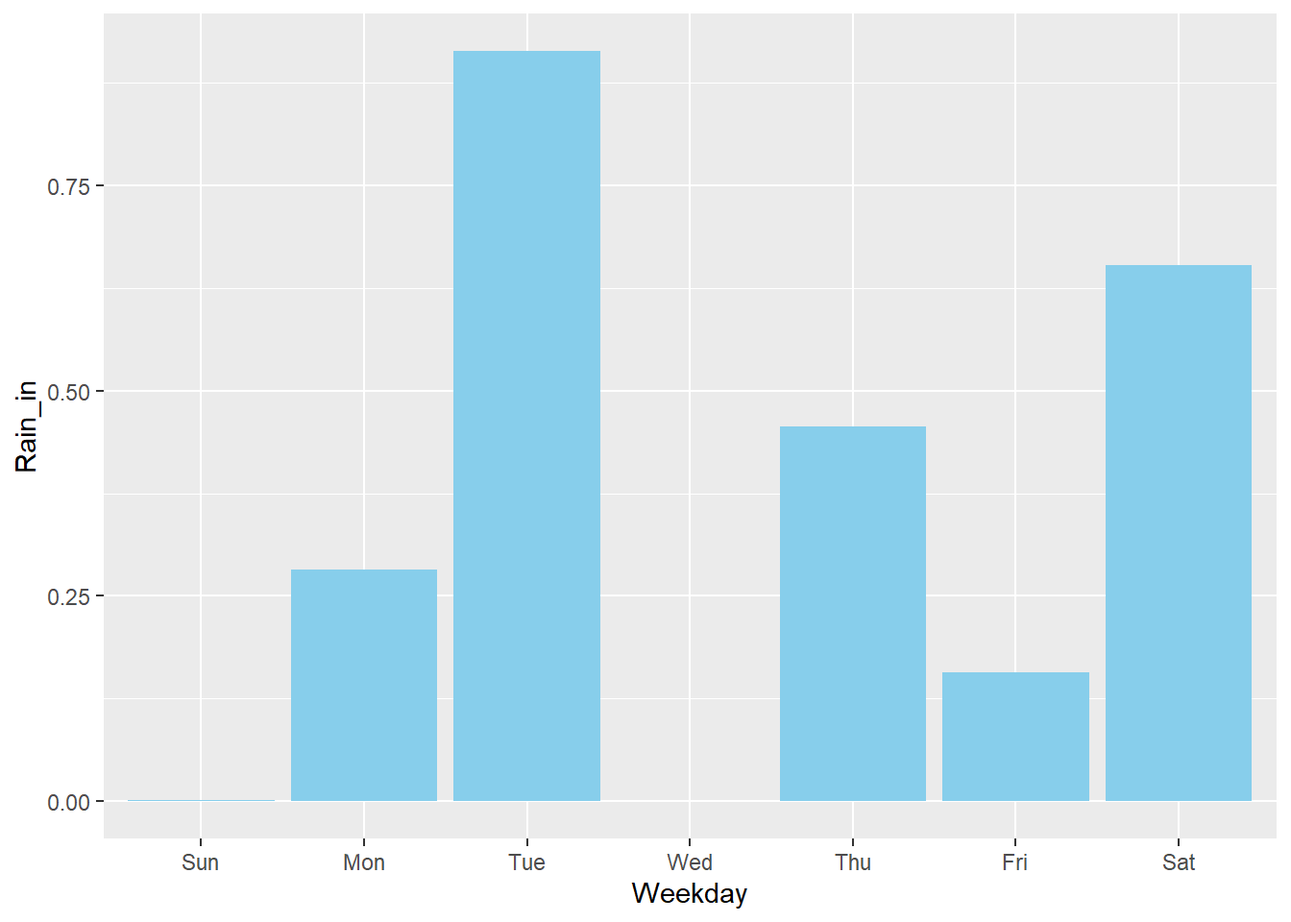
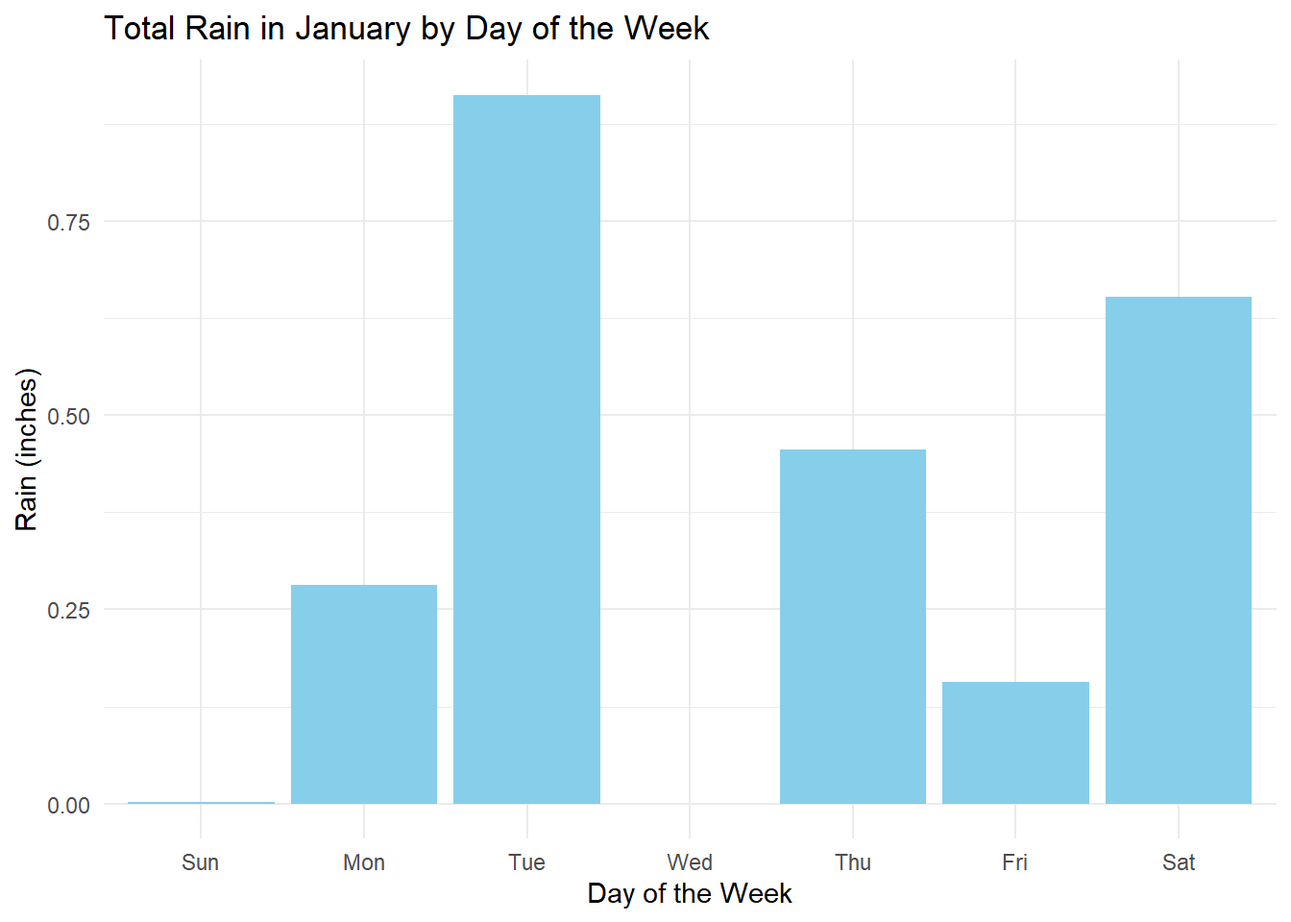
committing

diff --git a/docs/graphs.html b/docs/graphs.html
@@ -103,10 +103,10 @@ pre > code.sourceCode > span > a:first-child::before { text-decoration: underlin
 </header>
 
 
-<p>##Abstract</p>
+<section id="abstract" class="level2">
+<h2 class="anchored" data-anchor-id="abstract">Abstract</h2>
 <p>The following graphs were created using data from the Rice Rivers Center at Virginia Commonwealth University. The graphs depict random data specifications that have no relation to each other. They are correct, scientifically.</p>
 <div class="cell">
-<div class="sourceCode cell-code" id="cb1"><pre class="sourceCode r code-with-copy"><code class="sourceCode r"><span id="cb1-1"><a href="#cb1-1" aria-hidden="true" tabindex="-1"></a><span class="fu">library</span>(tidyverse)</span></code><button title="Copy to Clipboard" class="code-copy-button"><i class="bi"></i></button></pre></div>
 <div class="cell-output cell-output-stderr">
 <pre><code>── Attaching core tidyverse packages ──────────────────────── tidyverse 2.0.0 ──
 ✔ dplyr     1.1.4     ✔ readr     2.1.5
@@ -117,13 +117,8 @@ pre > code.sourceCode > span > a:first-child::before { text-decoration: underlin
 ── Conflicts ────────────────────────────────────────── tidyverse_conflicts() ──
 ✖ dplyr::filter() masks stats::filter()
 ✖ dplyr::lag()    masks stats::lag()
-ℹ Use the conflicted package (&lt;http://conflicted.r-lib.org/&gt;) to force all conflicts to become errors</code></pre>
-</div>
-<div class="sourceCode cell-code" id="cb3"><pre class="sourceCode r code-with-copy"><code class="sourceCode r"><span id="cb3-1"><a href="#cb3-1" aria-hidden="true" tabindex="-1"></a><span class="fu">library</span>(ggplot2)</span>
-<span id="cb3-2"><a href="#cb3-2" aria-hidden="true" tabindex="-1"></a><span class="fu">source</span>(<span class="st">"getricedata.R"</span>)</span>
-<span id="cb3-3"><a href="#cb3-3" aria-hidden="true" tabindex="-1"></a>data <span class="ot">&lt;-</span> <span class="fu">getricedata</span>()</span></code><button title="Copy to Clipboard" class="code-copy-button"><i class="bi"></i></button></pre></div>
-<div class="cell-output cell-output-stderr">
-<pre><code>Rows: 8199 Columns: 23
+ℹ Use the conflicted package (&lt;http://conflicted.r-lib.org/&gt;) to force all conflicts to become errors
+Rows: 8199 Columns: 23
 ── Column specification ────────────────────────────────────────────────────────
 Delimiter: ","
 chr  (1): DateTime
@@ -135,16 +130,16 @@ dbl (22): RecordID, PAR, WindSpeed_mph, WindDir, AirTempF, RelHumidity, BP_H...
 </div>
 <p>Total Rain for each Weekday in January</p>
 <div class="cell">
-<div class="sourceCode cell-code" id="cb5"><pre class="sourceCode r code-with-copy"><code class="sourceCode r"><span id="cb5-1"><a href="#cb5-1" aria-hidden="true" tabindex="-1"></a>df <span class="ot">&lt;-</span> data <span class="sc">|&gt;</span></span>
-<span id="cb5-2"><a href="#cb5-2" aria-hidden="true" tabindex="-1"></a>  <span class="fu">filter</span>(Month <span class="sc">==</span> <span class="st">"Jan"</span>) <span class="sc">|&gt;</span>  </span>
-<span id="cb5-3"><a href="#cb5-3" aria-hidden="true" tabindex="-1"></a>  <span class="fu">group_by</span>(Weekday) <span class="sc">|&gt;</span> </span>
-<span id="cb5-4"><a href="#cb5-4" aria-hidden="true" tabindex="-1"></a>  <span class="fu">summarise</span>(<span class="at">Rain_in =</span> <span class="fu">sum</span>(Rain_in))</span>
-<span id="cb5-5"><a href="#cb5-5" aria-hidden="true" tabindex="-1"></a></span>
-<span id="cb5-6"><a href="#cb5-6" aria-hidden="true" tabindex="-1"></a></span>
-<span id="cb5-7"><a href="#cb5-7" aria-hidden="true" tabindex="-1"></a></span>
-<span id="cb5-8"><a href="#cb5-8" aria-hidden="true" tabindex="-1"></a><span class="fu">barplot</span>( df<span class="sc">$</span>Rain_in, </span>
-<span id="cb5-9"><a href="#cb5-9" aria-hidden="true" tabindex="-1"></a>         <span class="at">names.arg =</span> df<span class="sc">$</span>Weekday, </span>
-<span id="cb5-10"><a href="#cb5-10" aria-hidden="true" tabindex="-1"></a>         <span class="at">ylab =</span> <span class="st">"Rain (inches)"</span>, <span class="at">xlab =</span> <span class="st">"Day of the Week"</span>, <span class="at">main =</span> <span class="st">"Average Total Rain in January"</span>) </span></code><button title="Copy to Clipboard" class="code-copy-button"><i class="bi"></i></button></pre></div>
+<div class="sourceCode cell-code" id="cb2"><pre class="sourceCode r code-with-copy"><code class="sourceCode r"><span id="cb2-1"><a href="#cb2-1" aria-hidden="true" tabindex="-1"></a>df <span class="ot">&lt;-</span> data <span class="sc">|&gt;</span></span>
+<span id="cb2-2"><a href="#cb2-2" aria-hidden="true" tabindex="-1"></a>  <span class="fu">filter</span>(Month <span class="sc">==</span> <span class="st">"Jan"</span>) <span class="sc">|&gt;</span>  </span>
+<span id="cb2-3"><a href="#cb2-3" aria-hidden="true" tabindex="-1"></a>  <span class="fu">group_by</span>(Weekday) <span class="sc">|&gt;</span> </span>
+<span id="cb2-4"><a href="#cb2-4" aria-hidden="true" tabindex="-1"></a>  <span class="fu">summarise</span>(<span class="at">Rain_in =</span> <span class="fu">sum</span>(Rain_in))</span>
+<span id="cb2-5"><a href="#cb2-5" aria-hidden="true" tabindex="-1"></a></span>
+<span id="cb2-6"><a href="#cb2-6" aria-hidden="true" tabindex="-1"></a></span>
+<span id="cb2-7"><a href="#cb2-7" aria-hidden="true" tabindex="-1"></a></span>
+<span id="cb2-8"><a href="#cb2-8" aria-hidden="true" tabindex="-1"></a><span class="fu">barplot</span>( df<span class="sc">$</span>Rain_in, </span>
+<span id="cb2-9"><a href="#cb2-9" aria-hidden="true" tabindex="-1"></a>         <span class="at">names.arg =</span> df<span class="sc">$</span>Weekday, </span>
+<span id="cb2-10"><a href="#cb2-10" aria-hidden="true" tabindex="-1"></a>         <span class="at">ylab =</span> <span class="st">"Rain (inches)"</span>, <span class="at">xlab =</span> <span class="st">"Day of the Week"</span>, <span class="at">main =</span> <span class="st">"Average Total Rain in January"</span>) </span></code><button title="Copy to Clipboard" class="code-copy-button"><i class="bi"></i></button></pre></div>
 <div class="cell-output-display">
 <div>
 <figure class="figure">
@@ -154,9 +149,13 @@ dbl (22): RecordID, PAR, WindSpeed_mph, WindDir, AirTempF, RelHumidity, BP_H...
 </div>
 </div>
 <div class="cell">
-<div class="sourceCode cell-code" id="cb6"><pre class="sourceCode r code-with-copy"><code class="sourceCode r"><span id="cb6-1"><a href="#cb6-1" aria-hidden="true" tabindex="-1"></a>df <span class="sc">|&gt;</span> </span>
-<span id="cb6-2"><a href="#cb6-2" aria-hidden="true" tabindex="-1"></a>  <span class="fu">ggplot</span>(<span class="fu">aes</span>(<span class="at">x =</span> Weekday, <span class="at">y =</span> Rain_in)) <span class="sc">+</span></span>
-<span id="cb6-3"><a href="#cb6-3" aria-hidden="true" tabindex="-1"></a>  <span class="fu">geom_bar</span>(<span class="at">stat =</span> <span class="st">"identity"</span>, <span class="at">fill =</span> <span class="st">"skyblue"</span>) </span></code><button title="Copy to Clipboard" class="code-copy-button"><i class="bi"></i></button></pre></div>
+<div class="sourceCode cell-code" id="cb3"><pre class="sourceCode r code-with-copy"><code class="sourceCode r"><span id="cb3-1"><a href="#cb3-1" aria-hidden="true" tabindex="-1"></a>df <span class="sc">|&gt;</span> </span>
+<span id="cb3-2"><a href="#cb3-2" aria-hidden="true" tabindex="-1"></a>  <span class="fu">ggplot</span>(<span class="fu">aes</span>(<span class="at">x =</span> Weekday, <span class="at">y =</span> Rain_in)) <span class="sc">+</span></span>
+<span id="cb3-3"><a href="#cb3-3" aria-hidden="true" tabindex="-1"></a>  <span class="fu">geom_bar</span>(<span class="at">stat =</span> <span class="st">"identity"</span>, <span class="at">fill =</span> <span class="st">"skyblue"</span>) <span class="sc">+</span> </span>
+<span id="cb3-4"><a href="#cb3-4" aria-hidden="true" tabindex="-1"></a>  <span class="fu">labs</span>(<span class="at">title =</span> <span class="st">"Total Rain in January by Day of the Week"</span>, </span>
+<span id="cb3-5"><a href="#cb3-5" aria-hidden="true" tabindex="-1"></a>       <span class="at">x =</span> <span class="st">"Day of the Week"</span>, </span>
+<span id="cb3-6"><a href="#cb3-6" aria-hidden="true" tabindex="-1"></a>       <span class="at">y =</span> <span class="st">"Rain (inches)"</span>) <span class="sc">+</span></span>
+<span id="cb3-7"><a href="#cb3-7" aria-hidden="true" tabindex="-1"></a>      <span class="fu">theme_minimal</span>() </span></code><button title="Copy to Clipboard" class="code-copy-button"><i class="bi"></i></button></pre></div>
 <div class="cell-output-display">
 <div>
 <figure class="figure">
@@ -164,25 +163,20 @@ dbl (22): RecordID, PAR, WindSpeed_mph, WindDir, AirTempF, RelHumidity, BP_H...
 </figure>
 </div>
 </div>
-<div class="sourceCode cell-code" id="cb7"><pre class="sourceCode r code-with-copy"><code class="sourceCode r"><span id="cb7-1"><a href="#cb7-1" aria-hidden="true" tabindex="-1"></a><span class="co">#+ </span></span>
-<span id="cb7-2"><a href="#cb7-2" aria-hidden="true" tabindex="-1"></a><span class="co">#  labs(title = "Total Rain in January by Day of the Week", </span></span>
-<span id="cb7-3"><a href="#cb7-3" aria-hidden="true" tabindex="-1"></a><span class="co">#       x = "Day of the Week", </span></span>
-<span id="cb7-4"><a href="#cb7-4" aria-hidden="true" tabindex="-1"></a><span class="co">#       y = "Rain (inches)") +</span></span>
-<span id="cb7-5"><a href="#cb7-5" aria-hidden="true" tabindex="-1"></a><span class="co">#  theme_minimal() </span></span></code><button title="Copy to Clipboard" class="code-copy-button"><i class="bi"></i></button></pre></div>
 </div>
 <p>Average daily temperature for weekdays in February</p>
 <div class="cell">
-<div class="sourceCode cell-code" id="cb8"><pre class="sourceCode r code-with-copy"><code class="sourceCode r"><span id="cb8-1"><a href="#cb8-1" aria-hidden="true" tabindex="-1"></a>temp <span class="ot">&lt;-</span> data <span class="sc">|&gt;</span></span>
-<span id="cb8-2"><a href="#cb8-2" aria-hidden="true" tabindex="-1"></a>  <span class="fu">filter</span>(Month <span class="sc">==</span> <span class="st">"Feb"</span>) <span class="sc">|&gt;</span></span>
-<span id="cb8-3"><a href="#cb8-3" aria-hidden="true" tabindex="-1"></a>  <span class="fu">group_by</span>( Day ) <span class="sc">|&gt;</span></span>
-<span id="cb8-4"><a href="#cb8-4" aria-hidden="true" tabindex="-1"></a>  <span class="fu">summarise</span>( <span class="at">meantemp =</span> <span class="fu">mean</span>( AirTempC) )</span>
-<span id="cb8-5"><a href="#cb8-5" aria-hidden="true" tabindex="-1"></a></span>
-<span id="cb8-6"><a href="#cb8-6" aria-hidden="true" tabindex="-1"></a></span>
-<span id="cb8-7"><a href="#cb8-7" aria-hidden="true" tabindex="-1"></a><span class="fu">ggplot</span>( temp, <span class="fu">aes</span>( <span class="at">x =</span> Day, <span class="at">y =</span> meantemp ) ) <span class="sc">+</span> <span class="fu">geom_point</span>() <span class="sc">+</span></span>
-<span id="cb8-8"><a href="#cb8-8" aria-hidden="true" tabindex="-1"></a>  <span class="fu">geom_smooth</span>(<span class="at">se =</span> <span class="cn">FALSE</span>, <span class="at">color =</span> <span class="st">"red"</span>) <span class="sc">+</span></span>
-<span id="cb8-9"><a href="#cb8-9" aria-hidden="true" tabindex="-1"></a>   <span class="fu">labs</span>(<span class="at">title =</span> <span class="st">"Mean Air Temperature in February"</span>, </span>
-<span id="cb8-10"><a href="#cb8-10" aria-hidden="true" tabindex="-1"></a>       <span class="at">x =</span> <span class="st">"Day"</span>, </span>
-<span id="cb8-11"><a href="#cb8-11" aria-hidden="true" tabindex="-1"></a>       <span class="at">y =</span> <span class="st">"Mean Temperature (°C)"</span>) </span></code><button title="Copy to Clipboard" class="code-copy-button"><i class="bi"></i></button></pre></div>
+<div class="sourceCode cell-code" id="cb4"><pre class="sourceCode r code-with-copy"><code class="sourceCode r"><span id="cb4-1"><a href="#cb4-1" aria-hidden="true" tabindex="-1"></a>temp <span class="ot">&lt;-</span> data <span class="sc">|&gt;</span></span>
+<span id="cb4-2"><a href="#cb4-2" aria-hidden="true" tabindex="-1"></a>  <span class="fu">filter</span>(Month <span class="sc">==</span> <span class="st">"Feb"</span>) <span class="sc">|&gt;</span></span>
+<span id="cb4-3"><a href="#cb4-3" aria-hidden="true" tabindex="-1"></a>  <span class="fu">group_by</span>( Day ) <span class="sc">|&gt;</span></span>
+<span id="cb4-4"><a href="#cb4-4" aria-hidden="true" tabindex="-1"></a>  <span class="fu">summarise</span>( <span class="at">meantemp =</span> <span class="fu">mean</span>( AirTempC) )</span>
+<span id="cb4-5"><a href="#cb4-5" aria-hidden="true" tabindex="-1"></a></span>
+<span id="cb4-6"><a href="#cb4-6" aria-hidden="true" tabindex="-1"></a></span>
+<span id="cb4-7"><a href="#cb4-7" aria-hidden="true" tabindex="-1"></a><span class="fu">ggplot</span>( temp, <span class="fu">aes</span>( <span class="at">x =</span> Day, <span class="at">y =</span> meantemp ) ) <span class="sc">+</span> <span class="fu">geom_point</span>() <span class="sc">+</span></span>
+<span id="cb4-8"><a href="#cb4-8" aria-hidden="true" tabindex="-1"></a>  <span class="fu">geom_smooth</span>(<span class="at">se =</span> <span class="cn">FALSE</span>, <span class="at">color =</span> <span class="st">"red"</span>) <span class="sc">+</span></span>
+<span id="cb4-9"><a href="#cb4-9" aria-hidden="true" tabindex="-1"></a>   <span class="fu">labs</span>(<span class="at">title =</span> <span class="st">"Mean Air Temperature in February"</span>, </span>
+<span id="cb4-10"><a href="#cb4-10" aria-hidden="true" tabindex="-1"></a>       <span class="at">x =</span> <span class="st">"Day"</span>, </span>
+<span id="cb4-11"><a href="#cb4-11" aria-hidden="true" tabindex="-1"></a>       <span class="at">y =</span> <span class="st">"Mean Temperature (°C)"</span>) </span></code><button title="Copy to Clipboard" class="code-copy-button"><i class="bi"></i></button></pre></div>
 <div class="cell-output cell-output-stderr">
 <pre><code>`geom_smooth()` using method = 'loess' and formula = 'y ~ x'</code></pre>
 </div>
@@ -193,14 +187,14 @@ dbl (22): RecordID, PAR, WindSpeed_mph, WindDir, AirTempF, RelHumidity, BP_H...
 </figure>
 </div>
 </div>
-<div class="sourceCode cell-code" id="cb10"><pre class="sourceCode r code-with-copy"><code class="sourceCode r"><span id="cb10-1"><a href="#cb10-1" aria-hidden="true" tabindex="-1"></a><span class="fu">plot</span>(temp<span class="sc">$</span>Day, temp<span class="sc">$</span>meantemp, </span>
-<span id="cb10-2"><a href="#cb10-2" aria-hidden="true" tabindex="-1"></a>     <span class="at">main =</span> <span class="st">"Mean Air Temperature in February"</span>, </span>
-<span id="cb10-3"><a href="#cb10-3" aria-hidden="true" tabindex="-1"></a>     <span class="at">xlab =</span> <span class="st">"Day"</span>, </span>
-<span id="cb10-4"><a href="#cb10-4" aria-hidden="true" tabindex="-1"></a>     <span class="at">ylab =</span> <span class="st">"Mean Temperature (°C)"</span>,</span>
-<span id="cb10-5"><a href="#cb10-5" aria-hidden="true" tabindex="-1"></a>     <span class="at">pch =</span> <span class="dv">16</span>,           </span>
-<span id="cb10-6"><a href="#cb10-6" aria-hidden="true" tabindex="-1"></a>     <span class="at">col =</span> <span class="st">"black"</span>,      </span>
-<span id="cb10-7"><a href="#cb10-7" aria-hidden="true" tabindex="-1"></a>     <span class="at">type =</span> <span class="st">"p"</span>)   <span class="sc">+</span>      </span>
-<span id="cb10-8"><a href="#cb10-8" aria-hidden="true" tabindex="-1"></a><span class="fu">lines</span>(<span class="fu">loess.smooth</span>(temp<span class="sc">$</span>Day, temp<span class="sc">$</span>meantemp), <span class="at">col =</span> <span class="st">"red"</span>, <span class="at">lwd =</span> <span class="dv">2</span>)</span></code><button title="Copy to Clipboard" class="code-copy-button"><i class="bi"></i></button></pre></div>
+<div class="sourceCode cell-code" id="cb6"><pre class="sourceCode r code-with-copy"><code class="sourceCode r"><span id="cb6-1"><a href="#cb6-1" aria-hidden="true" tabindex="-1"></a><span class="fu">plot</span>(temp<span class="sc">$</span>Day, temp<span class="sc">$</span>meantemp, </span>
+<span id="cb6-2"><a href="#cb6-2" aria-hidden="true" tabindex="-1"></a>     <span class="at">main =</span> <span class="st">"Mean Air Temperature in February"</span>, </span>
+<span id="cb6-3"><a href="#cb6-3" aria-hidden="true" tabindex="-1"></a>     <span class="at">xlab =</span> <span class="st">"Day"</span>, </span>
+<span id="cb6-4"><a href="#cb6-4" aria-hidden="true" tabindex="-1"></a>     <span class="at">ylab =</span> <span class="st">"Mean Temperature (°C)"</span>,</span>
+<span id="cb6-5"><a href="#cb6-5" aria-hidden="true" tabindex="-1"></a>     <span class="at">pch =</span> <span class="dv">16</span>,           </span>
+<span id="cb6-6"><a href="#cb6-6" aria-hidden="true" tabindex="-1"></a>     <span class="at">col =</span> <span class="st">"black"</span>,      </span>
+<span id="cb6-7"><a href="#cb6-7" aria-hidden="true" tabindex="-1"></a>     <span class="at">type =</span> <span class="st">"p"</span>)   <span class="sc">+</span>      </span>
+<span id="cb6-8"><a href="#cb6-8" aria-hidden="true" tabindex="-1"></a><span class="fu">lines</span>(<span class="fu">loess.smooth</span>(temp<span class="sc">$</span>Day, temp<span class="sc">$</span>meantemp), <span class="at">col =</span> <span class="st">"red"</span>, <span class="at">lwd =</span> <span class="dv">2</span>)</span></code><button title="Copy to Clipboard" class="code-copy-button"><i class="bi"></i></button></pre></div>
 <div class="cell-output-display">
 <div>
 <figure class="figure">
@@ -214,13 +208,13 @@ dbl (22): RecordID, PAR, WindSpeed_mph, WindDir, AirTempF, RelHumidity, BP_H...
 </div>
 <p>Water Depth on Valentine’s Day</p>
 <div class="cell">
-<div class="sourceCode cell-code" id="cb12"><pre class="sourceCode r code-with-copy"><code class="sourceCode r"><span id="cb12-1"><a href="#cb12-1" aria-hidden="true" tabindex="-1"></a>val <span class="ot">&lt;-</span> data <span class="sc">|&gt;</span></span>
-<span id="cb12-2"><a href="#cb12-2" aria-hidden="true" tabindex="-1"></a>  <span class="fu">filter</span>( Month <span class="sc">==</span> <span class="st">"Feb"</span>, Day <span class="sc">==</span> <span class="dv">14</span>) </span>
-<span id="cb12-3"><a href="#cb12-3" aria-hidden="true" tabindex="-1"></a></span>
-<span id="cb12-4"><a href="#cb12-4" aria-hidden="true" tabindex="-1"></a><span class="fu">ggplot</span>( val, <span class="fu">aes</span>( <span class="at">y =</span> Depth_m, <span class="at">x =</span> Date) ) <span class="sc">+</span> <span class="fu">geom_point</span>() <span class="sc">+</span></span>
-<span id="cb12-5"><a href="#cb12-5" aria-hidden="true" tabindex="-1"></a>  <span class="fu">labs</span>(<span class="at">title =</span> <span class="st">"Water Depth on Valentine's Day"</span>, </span>
-<span id="cb12-6"><a href="#cb12-6" aria-hidden="true" tabindex="-1"></a>       <span class="at">x =</span> <span class="st">"Time of Day"</span>, </span>
-<span id="cb12-7"><a href="#cb12-7" aria-hidden="true" tabindex="-1"></a>       <span class="at">y =</span> <span class="st">"Depth in Meters)"</span>) </span></code><button title="Copy to Clipboard" class="code-copy-button"><i class="bi"></i></button></pre></div>
+<div class="sourceCode cell-code" id="cb8"><pre class="sourceCode r code-with-copy"><code class="sourceCode r"><span id="cb8-1"><a href="#cb8-1" aria-hidden="true" tabindex="-1"></a>val <span class="ot">&lt;-</span> data <span class="sc">|&gt;</span></span>
+<span id="cb8-2"><a href="#cb8-2" aria-hidden="true" tabindex="-1"></a>  <span class="fu">filter</span>( Month <span class="sc">==</span> <span class="st">"Feb"</span>, Day <span class="sc">==</span> <span class="dv">14</span>) </span>
+<span id="cb8-3"><a href="#cb8-3" aria-hidden="true" tabindex="-1"></a></span>
+<span id="cb8-4"><a href="#cb8-4" aria-hidden="true" tabindex="-1"></a><span class="fu">ggplot</span>( val, <span class="fu">aes</span>( <span class="at">y =</span> Depth_m, <span class="at">x =</span> Date) ) <span class="sc">+</span> <span class="fu">geom_point</span>() <span class="sc">+</span></span>
+<span id="cb8-5"><a href="#cb8-5" aria-hidden="true" tabindex="-1"></a>  <span class="fu">labs</span>(<span class="at">title =</span> <span class="st">"Water Depth on Valentine's Day"</span>, </span>
+<span id="cb8-6"><a href="#cb8-6" aria-hidden="true" tabindex="-1"></a>       <span class="at">x =</span> <span class="st">"Time of Day"</span>, </span>
+<span id="cb8-7"><a href="#cb8-7" aria-hidden="true" tabindex="-1"></a>       <span class="at">y =</span> <span class="st">"Depth in Meters)"</span>) </span></code><button title="Copy to Clipboard" class="code-copy-button"><i class="bi"></i></button></pre></div>
 <div class="cell-output-display">
 <div>
 <figure class="figure">
@@ -228,13 +222,13 @@ dbl (22): RecordID, PAR, WindSpeed_mph, WindDir, AirTempF, RelHumidity, BP_H...
 </figure>
 </div>
 </div>
-<div class="sourceCode cell-code" id="cb13"><pre class="sourceCode r code-with-copy"><code class="sourceCode r"><span id="cb13-1"><a href="#cb13-1" aria-hidden="true" tabindex="-1"></a><span class="fu">plot</span>(val<span class="sc">$</span>Date, val<span class="sc">$</span>Depth_m,</span>
-<span id="cb13-2"><a href="#cb13-2" aria-hidden="true" tabindex="-1"></a>     <span class="at">main =</span> <span class="st">"Water Depth on Valentine's Day"</span>,  </span>
-<span id="cb13-3"><a href="#cb13-3" aria-hidden="true" tabindex="-1"></a>     <span class="at">xlab =</span> <span class="st">"Time of Day"</span>,                      </span>
-<span id="cb13-4"><a href="#cb13-4" aria-hidden="true" tabindex="-1"></a>     <span class="at">ylab =</span> <span class="st">"Depth in Meters"</span>,                </span>
-<span id="cb13-5"><a href="#cb13-5" aria-hidden="true" tabindex="-1"></a>     <span class="at">pch =</span> <span class="dv">16</span>,                                </span>
-<span id="cb13-6"><a href="#cb13-6" aria-hidden="true" tabindex="-1"></a>     <span class="at">col =</span> <span class="st">"blue"</span>,                            </span>
-<span id="cb13-7"><a href="#cb13-7" aria-hidden="true" tabindex="-1"></a>     <span class="at">type =</span> <span class="st">"p"</span>)         </span></code><button title="Copy to Clipboard" class="code-copy-button"><i class="bi"></i></button></pre></div>
+<div class="sourceCode cell-code" id="cb9"><pre class="sourceCode r code-with-copy"><code class="sourceCode r"><span id="cb9-1"><a href="#cb9-1" aria-hidden="true" tabindex="-1"></a><span class="fu">plot</span>(val<span class="sc">$</span>Date, val<span class="sc">$</span>Depth_m,</span>
+<span id="cb9-2"><a href="#cb9-2" aria-hidden="true" tabindex="-1"></a>     <span class="at">main =</span> <span class="st">"Water Depth on Valentine's Day"</span>,  </span>
+<span id="cb9-3"><a href="#cb9-3" aria-hidden="true" tabindex="-1"></a>     <span class="at">xlab =</span> <span class="st">"Time of Day"</span>,                      </span>
+<span id="cb9-4"><a href="#cb9-4" aria-hidden="true" tabindex="-1"></a>     <span class="at">ylab =</span> <span class="st">"Depth in Meters"</span>,                </span>
+<span id="cb9-5"><a href="#cb9-5" aria-hidden="true" tabindex="-1"></a>     <span class="at">pch =</span> <span class="dv">16</span>,                                </span>
+<span id="cb9-6"><a href="#cb9-6" aria-hidden="true" tabindex="-1"></a>     <span class="at">col =</span> <span class="st">"blue"</span>,                            </span>
+<span id="cb9-7"><a href="#cb9-7" aria-hidden="true" tabindex="-1"></a>     <span class="at">type =</span> <span class="st">"p"</span>)         </span></code><button title="Copy to Clipboard" class="code-copy-button"><i class="bi"></i></button></pre></div>
 <div class="cell-output-display">
 <div>
 <figure class="figure">
@@ -245,23 +239,26 @@ dbl (22): RecordID, PAR, WindSpeed_mph, WindDir, AirTempF, RelHumidity, BP_H...
 </div>
 <p>Daily Total Rain and Daily Median Temperature</p>
 <div class="cell">
-<div class="sourceCode cell-code" id="cb14"><pre class="sourceCode r code-with-copy"><code class="sourceCode r"><span id="cb14-1"><a href="#cb14-1" aria-hidden="true" tabindex="-1"></a>rain <span class="ot">&lt;-</span> data <span class="sc">|&gt;</span></span>
-<span id="cb14-2"><a href="#cb14-2" aria-hidden="true" tabindex="-1"></a>  <span class="fu">group_by</span>(Month, Day, Weekday) <span class="sc">|&gt;</span></span>
-<span id="cb14-3"><a href="#cb14-3" aria-hidden="true" tabindex="-1"></a>  <span class="fu">summarise</span>( <span class="at">totalrain =</span> <span class="fu">sum</span>( Rain_in), <span class="at">mediantemp =</span> <span class="fu">median</span>(AirTempC) )</span></code><button title="Copy to Clipboard" class="code-copy-button"><i class="bi"></i></button></pre></div>
+<div class="sourceCode cell-code" id="cb10"><pre class="sourceCode r code-with-copy"><code class="sourceCode r"><span id="cb10-1"><a href="#cb10-1" aria-hidden="true" tabindex="-1"></a>rain <span class="ot">&lt;-</span> data <span class="sc">|&gt;</span></span>
+<span id="cb10-2"><a href="#cb10-2" aria-hidden="true" tabindex="-1"></a>  <span class="fu">group_by</span>(Month, Day, Weekday) <span class="sc">|&gt;</span></span>
+<span id="cb10-3"><a href="#cb10-3" aria-hidden="true" tabindex="-1"></a>  <span class="fu">summarise</span>(<span class="at">totalrain =</span> <span class="fu">sum</span>(Rain_in), <span class="at">mediantemp =</span> <span class="fu">median</span>(AirTempC))</span></code><button title="Copy to Clipboard" class="code-copy-button"><i class="bi"></i></button></pre></div>
 <div class="cell-output cell-output-stderr">
 <pre><code>`summarise()` has grouped output by 'Month', 'Day'. You can override using the
 `.groups` argument.</code></pre>
 </div>
-<div class="sourceCode cell-code" id="cb16"><pre class="sourceCode r code-with-copy"><code class="sourceCode r"><span id="cb16-1"><a href="#cb16-1" aria-hidden="true" tabindex="-1"></a>centroids <span class="ot">&lt;-</span> rain <span class="sc">|&gt;</span></span>
-<span id="cb16-2"><a href="#cb16-2" aria-hidden="true" tabindex="-1"></a>  <span class="fu">group_by</span>(Month) <span class="sc">|&gt;</span></span>
-<span id="cb16-3"><a href="#cb16-3" aria-hidden="true" tabindex="-1"></a>  <span class="fu">summarise</span>( <span class="at">mrain =</span> <span class="fu">mean</span>(totalrain), <span class="at">mtemp =</span> <span class="fu">mean</span>(mediantemp))</span>
-<span id="cb16-4"><a href="#cb16-4" aria-hidden="true" tabindex="-1"></a></span>
-<span id="cb16-5"><a href="#cb16-5" aria-hidden="true" tabindex="-1"></a><span class="fu">ggplot</span>(rain, <span class="fu">aes</span>( totalrain, <span class="at">y =</span> mediantemp, <span class="at">color =</span> Month)) <span class="sc">+</span></span>
-<span id="cb16-6"><a href="#cb16-6" aria-hidden="true" tabindex="-1"></a>  <span class="fu">geom_point</span>() <span class="sc">+</span></span>
-<span id="cb16-7"><a href="#cb16-7" aria-hidden="true" tabindex="-1"></a>  <span class="fu">geom_text</span>(<span class="at">data =</span> centroids, <span class="fu">aes</span> (<span class="at">x=</span> mrain, <span class="at">y=</span>mtemp, <span class="at">label =</span> Month), <span class="at">color =</span> <span class="st">"black"</span>, <span class="at">fontface =</span> <span class="st">"bold"</span>) <span class="sc">+</span></span>
-<span id="cb16-8"><a href="#cb16-8" aria-hidden="true" tabindex="-1"></a>  <span class="fu">labs</span>(<span class="at">title =</span> <span class="st">"Daily Total Rain vs. Median Temperature"</span>, </span>
-<span id="cb16-9"><a href="#cb16-9" aria-hidden="true" tabindex="-1"></a>       <span class="at">x =</span> <span class="st">"Daily Total Rain (mm)"</span>, </span>
-<span id="cb16-10"><a href="#cb16-10" aria-hidden="true" tabindex="-1"></a>       <span class="at">y =</span> <span class="st">"Daily Median Temperature (°C)"</span>) </span></code><button title="Copy to Clipboard" class="code-copy-button"><i class="bi"></i></button></pre></div>
+<div class="sourceCode cell-code" id="cb12"><pre class="sourceCode r code-with-copy"><code class="sourceCode r"><span id="cb12-1"><a href="#cb12-1" aria-hidden="true" tabindex="-1"></a>centroids <span class="ot">&lt;-</span> rain <span class="sc">|&gt;</span></span>
+<span id="cb12-2"><a href="#cb12-2" aria-hidden="true" tabindex="-1"></a>  <span class="fu">group_by</span>(Month) <span class="sc">|&gt;</span></span>
+<span id="cb12-3"><a href="#cb12-3" aria-hidden="true" tabindex="-1"></a>  <span class="fu">summarise</span>(<span class="at">mrain =</span> <span class="fu">mean</span>(totalrain), <span class="at">mtemp =</span> <span class="fu">mean</span>(mediantemp))</span>
+<span id="cb12-4"><a href="#cb12-4" aria-hidden="true" tabindex="-1"></a></span>
+<span id="cb12-5"><a href="#cb12-5" aria-hidden="true" tabindex="-1"></a><span class="fu">ggplot</span>(rain, <span class="fu">aes</span>(totalrain, <span class="at">y =</span> mediantemp)) <span class="sc">+</span></span>
+<span id="cb12-6"><a href="#cb12-6" aria-hidden="true" tabindex="-1"></a>  <span class="fu">geom_point</span>(<span class="fu">aes</span>(<span class="at">color =</span> Month)) <span class="sc">+</span></span>
+<span id="cb12-7"><a href="#cb12-7" aria-hidden="true" tabindex="-1"></a>  <span class="fu">geom_point</span>(<span class="at">data =</span> centroids, <span class="fu">aes</span>(<span class="at">x =</span> mrain, <span class="at">y =</span> mtemp), <span class="at">color =</span> <span class="st">"red"</span>, <span class="at">size =</span> <span class="dv">2</span>) <span class="sc">+</span>  </span>
+<span id="cb12-8"><a href="#cb12-8" aria-hidden="true" tabindex="-1"></a>  <span class="fu">geom_text</span>(<span class="at">data =</span> centroids, <span class="fu">aes</span>(<span class="at">x =</span> mrain, <span class="at">y =</span> mtemp, <span class="at">label =</span> Month), <span class="at">color =</span> <span class="st">"black"</span>, <span class="at">fontface =</span> <span class="st">"bold"</span>, <span class="at">vjust =</span> <span class="sc">-</span><span class="dv">1</span>) <span class="sc">+</span>  </span>
+<span id="cb12-9"><a href="#cb12-9" aria-hidden="true" tabindex="-1"></a>  <span class="fu">facet_wrap</span>(<span class="sc">~</span> Month) <span class="sc">+</span>  </span>
+<span id="cb12-10"><a href="#cb12-10" aria-hidden="true" tabindex="-1"></a>  <span class="fu">labs</span>(<span class="at">title =</span> <span class="st">"Daily Total Rain vs. Median Temperature by Month"</span>,</span>
+<span id="cb12-11"><a href="#cb12-11" aria-hidden="true" tabindex="-1"></a>       <span class="at">x =</span> <span class="st">"Daily Total Rain (mm)"</span>,</span>
+<span id="cb12-12"><a href="#cb12-12" aria-hidden="true" tabindex="-1"></a>       <span class="at">y =</span> <span class="st">"Daily Median Temperature (°C)"</span>) <span class="sc">+</span></span>
+<span id="cb12-13"><a href="#cb12-13" aria-hidden="true" tabindex="-1"></a>  <span class="fu">theme_minimal</span>()  </span></code><button title="Copy to Clipboard" class="code-copy-button"><i class="bi"></i></button></pre></div>
 <div class="cell-output-display">
 <div>
 <figure class="figure">
@@ -270,19 +267,21 @@ dbl (22): RecordID, PAR, WindSpeed_mph, WindDir, AirTempF, RelHumidity, BP_H...
 </div>
 </div>
 </div>
-<p>Wind Direction January 5-11th</p>
 <div class="cell">
-<div class="sourceCode cell-code" id="cb17"><pre class="sourceCode r code-with-copy"><code class="sourceCode r"><span id="cb17-1"><a href="#cb17-1" aria-hidden="true" tabindex="-1"></a>wind <span class="ot">&lt;-</span> data <span class="sc">|&gt;</span></span>
-<span id="cb17-2"><a href="#cb17-2" aria-hidden="true" tabindex="-1"></a>  <span class="fu">filter</span>( Month <span class="sc">==</span> <span class="st">"Jan"</span>) <span class="sc">|&gt;</span></span>
-<span id="cb17-3"><a href="#cb17-3" aria-hidden="true" tabindex="-1"></a>  <span class="fu">filter</span>( Day <span class="sc">==</span> <span class="dv">5</span><span class="sc">:</span><span class="dv">11</span>) <span class="sc">|&gt;</span></span>
-<span id="cb17-4"><a href="#cb17-4" aria-hidden="true" tabindex="-1"></a>  <span class="fu">group_by</span>( Day )</span></code><button title="Copy to Clipboard" class="code-copy-button"><i class="bi"></i></button></pre></div>
-<div class="cell-output cell-output-stderr">
-<pre><code>Warning: There was 1 warning in `filter()`.
-ℹ In argument: `Day == 5:11`.
-Caused by warning in `Day == 5:11`:
-! longer object length is not a multiple of shorter object length</code></pre>
-</div>
-<div class="sourceCode cell-code" id="cb19"><pre class="sourceCode r code-with-copy"><code class="sourceCode r"><span id="cb19-1"><a href="#cb19-1" aria-hidden="true" tabindex="-1"></a><span class="fu">ggplot</span>(wind, <span class="fu">aes</span>(<span class="at">x =</span> Day, <span class="at">y =</span> WindDir)) <span class="sc">+</span> <span class="fu">geom_point</span>()</span></code><button title="Copy to Clipboard" class="code-copy-button"><i class="bi"></i></button></pre></div>
+<div class="sourceCode cell-code" id="cb13"><pre class="sourceCode r code-with-copy"><code class="sourceCode r"><span id="cb13-1"><a href="#cb13-1" aria-hidden="true" tabindex="-1"></a><span class="fu">plot</span>(rain<span class="sc">$</span>totalrain, rain<span class="sc">$</span>mediantemp, </span>
+<span id="cb13-2"><a href="#cb13-2" aria-hidden="true" tabindex="-1"></a>     <span class="at">col =</span> <span class="fu">as.factor</span>(rain<span class="sc">$</span>Month),    </span>
+<span id="cb13-3"><a href="#cb13-3" aria-hidden="true" tabindex="-1"></a>     <span class="at">pch =</span> <span class="dv">16</span>,                       <span class="co"># Point character</span></span>
+<span id="cb13-4"><a href="#cb13-4" aria-hidden="true" tabindex="-1"></a>     <span class="at">main =</span> <span class="st">"Daily Total Rain vs. Median Temperature"</span>, </span>
+<span id="cb13-5"><a href="#cb13-5" aria-hidden="true" tabindex="-1"></a>     <span class="at">xlab =</span> <span class="st">"Daily Total Rain (mm)"</span>, </span>
+<span id="cb13-6"><a href="#cb13-6" aria-hidden="true" tabindex="-1"></a>     <span class="at">ylab =</span> <span class="st">"Daily Median Temperature (°C)"</span>)</span>
+<span id="cb13-7"><a href="#cb13-7" aria-hidden="true" tabindex="-1"></a></span>
+<span id="cb13-8"><a href="#cb13-8" aria-hidden="true" tabindex="-1"></a><span class="fu">points</span>(centroids<span class="sc">$</span>mrain, centroids<span class="sc">$</span>mtemp, </span>
+<span id="cb13-9"><a href="#cb13-9" aria-hidden="true" tabindex="-1"></a>       <span class="at">pch =</span> <span class="dv">19</span>, <span class="at">col =</span> <span class="st">"red"</span>, <span class="at">cex =</span> <span class="dv">2</span>)  </span>
+<span id="cb13-10"><a href="#cb13-10" aria-hidden="true" tabindex="-1"></a></span>
+<span id="cb13-11"><a href="#cb13-11" aria-hidden="true" tabindex="-1"></a></span>
+<span id="cb13-12"><a href="#cb13-12" aria-hidden="true" tabindex="-1"></a><span class="fu">legend</span>(<span class="st">"topright"</span>, <span class="at">legend =</span> <span class="fu">unique</span>(rain<span class="sc">$</span>Month), </span>
+<span id="cb13-13"><a href="#cb13-13" aria-hidden="true" tabindex="-1"></a>       <span class="at">col =</span> <span class="dv">1</span><span class="sc">:</span><span class="fu">length</span>(<span class="fu">unique</span>(rain<span class="sc">$</span>Month)), </span>
+<span id="cb13-14"><a href="#cb13-14" aria-hidden="true" tabindex="-1"></a>       <span class="at">pch =</span> <span class="dv">16</span>, <span class="at">title =</span> <span class="st">"Month"</span>, <span class="at">cex =</span> <span class="fl">0.8</span>)</span></code><button title="Copy to Clipboard" class="code-copy-button"><i class="bi"></i></button></pre></div>
 <div class="cell-output-display">
 <div>
 <figure class="figure">
@@ -291,6 +290,62 @@ Caused by warning in `Day == 5:11`:
 </div>
 </div>
 </div>
+<p>Wind Direction January 5-11th</p>
+<div class="cell">
+<div class="sourceCode cell-code" id="cb14"><pre class="sourceCode r code-with-copy"><code class="sourceCode r"><span id="cb14-1"><a href="#cb14-1" aria-hidden="true" tabindex="-1"></a>wind <span class="ot">&lt;-</span> data <span class="sc">%&gt;%</span></span>
+<span id="cb14-2"><a href="#cb14-2" aria-hidden="true" tabindex="-1"></a>  <span class="fu">filter</span>(Month <span class="sc">==</span> <span class="st">"Jan"</span>) <span class="sc">%&gt;%</span></span>
+<span id="cb14-3"><a href="#cb14-3" aria-hidden="true" tabindex="-1"></a>  <span class="fu">filter</span>(Day <span class="sc">%in%</span> <span class="dv">5</span><span class="sc">:</span><span class="dv">11</span>) <span class="sc">%&gt;%</span></span>
+<span id="cb14-4"><a href="#cb14-4" aria-hidden="true" tabindex="-1"></a>  <span class="fu">group_by</span>(Day, WindDir) <span class="sc">%&gt;%</span></span>
+<span id="cb14-5"><a href="#cb14-5" aria-hidden="true" tabindex="-1"></a>  <span class="fu">summarise</span>(<span class="at">count =</span> <span class="fu">n</span>(), <span class="at">.groups =</span> <span class="st">"drop"</span>) </span>
+<span id="cb14-6"><a href="#cb14-6" aria-hidden="true" tabindex="-1"></a></span>
+<span id="cb14-7"><a href="#cb14-7" aria-hidden="true" tabindex="-1"></a></span>
+<span id="cb14-8"><a href="#cb14-8" aria-hidden="true" tabindex="-1"></a><span class="fu">ggplot</span>(wind, <span class="fu">aes</span>(<span class="at">x =</span> WindDir, <span class="at">y =</span> count, <span class="at">fill =</span> <span class="fu">factor</span>(Day))) <span class="sc">+</span></span>
+<span id="cb14-9"><a href="#cb14-9" aria-hidden="true" tabindex="-1"></a>  <span class="fu">geom_bar</span>(<span class="at">stat =</span> <span class="st">"identity"</span>, <span class="at">position =</span> <span class="st">"dodge"</span>, <span class="at">alpha =</span> <span class="fl">0.7</span>, <span class="at">color =</span> <span class="st">"black"</span>, <span class="at">size =</span> <span class="fl">0.2</span>) <span class="sc">+</span>  </span>
+<span id="cb14-10"><a href="#cb14-10" aria-hidden="true" tabindex="-1"></a>  <span class="fu">coord_polar</span>(<span class="at">theta =</span> <span class="st">"x"</span>) <span class="sc">+</span>  </span>
+<span id="cb14-11"><a href="#cb14-11" aria-hidden="true" tabindex="-1"></a>  <span class="fu">labs</span>(<span class="at">title =</span> <span class="st">"Wind Direction Frequency (January 5-11)"</span>,</span>
+<span id="cb14-12"><a href="#cb14-12" aria-hidden="true" tabindex="-1"></a>       <span class="at">x =</span> <span class="st">"Wind Direction (degrees)"</span>,</span>
+<span id="cb14-13"><a href="#cb14-13" aria-hidden="true" tabindex="-1"></a>       <span class="at">y =</span> <span class="st">"Frequency"</span>,</span>
+<span id="cb14-14"><a href="#cb14-14" aria-hidden="true" tabindex="-1"></a>       <span class="at">fill =</span> <span class="st">"Day"</span>) <span class="sc">+</span></span>
+<span id="cb14-15"><a href="#cb14-15" aria-hidden="true" tabindex="-1"></a>  <span class="fu">theme_minimal</span>() <span class="sc">+</span>  </span>
+<span id="cb14-16"><a href="#cb14-16" aria-hidden="true" tabindex="-1"></a>  <span class="fu">theme</span>(<span class="at">axis.text.x =</span> <span class="fu">element_text</span>(<span class="at">angle =</span> <span class="dv">45</span>, <span class="at">hjust =</span> <span class="dv">1</span>),  </span>
+<span id="cb14-17"><a href="#cb14-17" aria-hidden="true" tabindex="-1"></a>        <span class="at">panel.grid =</span> <span class="fu">element_line</span>(<span class="at">color =</span> <span class="st">"grey80"</span>), </span>
+<span id="cb14-18"><a href="#cb14-18" aria-hidden="true" tabindex="-1"></a>        <span class="at">legend.position =</span> <span class="st">"right"</span>) <span class="sc">+</span> </span>
+<span id="cb14-19"><a href="#cb14-19" aria-hidden="true" tabindex="-1"></a>  <span class="fu">scale_fill_brewer</span>(<span class="at">palette =</span> <span class="st">"Set1"</span>)</span></code><button title="Copy to Clipboard" class="code-copy-button"><i class="bi"></i></button></pre></div>
+<div class="cell-output cell-output-stderr">
+<pre><code>Warning: Using `size` aesthetic for lines was deprecated in ggplot2 3.4.0.
+ℹ Please use `linewidth` instead.</code></pre>
+</div>
+<div class="cell-output-display">
+<div>
+<figure class="figure">
+<p><img src="graphs_files/figure-html/unnamed-chunk-8-1.png" class="img-fluid figure-img" width="672"></p>
+</figure>
+</div>
+</div>
+</div>
+<div class="cell">
+<div class="sourceCode cell-code" id="cb16"><pre class="sourceCode r code-with-copy"><code class="sourceCode r"><span id="cb16-1"><a href="#cb16-1" aria-hidden="true" tabindex="-1"></a>wind <span class="ot">&lt;-</span> data[data<span class="sc">$</span>Month <span class="sc">==</span> <span class="st">"Jan"</span> <span class="sc">&amp;</span> data<span class="sc">$</span>Day <span class="sc">%in%</span> <span class="dv">5</span><span class="sc">:</span><span class="dv">11</span>, ]</span>
+<span id="cb16-2"><a href="#cb16-2" aria-hidden="true" tabindex="-1"></a></span>
+<span id="cb16-3"><a href="#cb16-3" aria-hidden="true" tabindex="-1"></a></span>
+<span id="cb16-4"><a href="#cb16-4" aria-hidden="true" tabindex="-1"></a>wind<span class="sc">$</span>WindDir <span class="ot">&lt;-</span> <span class="fu">as.numeric</span>(<span class="fu">as.character</span>(wind<span class="sc">$</span>WindDir))</span>
+<span id="cb16-5"><a href="#cb16-5" aria-hidden="true" tabindex="-1"></a></span>
+<span id="cb16-6"><a href="#cb16-6" aria-hidden="true" tabindex="-1"></a></span>
+<span id="cb16-7"><a href="#cb16-7" aria-hidden="true" tabindex="-1"></a><span class="fu">plot</span>(wind<span class="sc">$</span>Day, wind<span class="sc">$</span>WindDir,</span>
+<span id="cb16-8"><a href="#cb16-8" aria-hidden="true" tabindex="-1"></a>     <span class="at">main =</span> <span class="st">"Wind Direction (January 5-11)"</span>,</span>
+<span id="cb16-9"><a href="#cb16-9" aria-hidden="true" tabindex="-1"></a>     <span class="at">xlab =</span> <span class="st">"Day of January"</span>,</span>
+<span id="cb16-10"><a href="#cb16-10" aria-hidden="true" tabindex="-1"></a>     <span class="at">ylab =</span> <span class="st">"Wind Direction (Degrees)"</span>,</span>
+<span id="cb16-11"><a href="#cb16-11" aria-hidden="true" tabindex="-1"></a>     <span class="at">pch =</span> <span class="dv">16</span>,          <span class="co"># Point character type</span></span>
+<span id="cb16-12"><a href="#cb16-12" aria-hidden="true" tabindex="-1"></a>     <span class="at">col =</span> <span class="st">"blue"</span>,      <span class="co"># Point color</span></span>
+<span id="cb16-13"><a href="#cb16-13" aria-hidden="true" tabindex="-1"></a>     <span class="at">ylim =</span> <span class="fu">c</span>(<span class="dv">0</span>, <span class="dv">360</span>))  <span class="co"># Set y-axis limits from 0 to 360 degrees</span></span></code><button title="Copy to Clipboard" class="code-copy-button"><i class="bi"></i></button></pre></div>
+<div class="cell-output-display">
+<div>
+<figure class="figure">
+<p><img src="graphs_files/figure-html/unnamed-chunk-9-1.png" class="img-fluid figure-img" width="672"></p>
+</figure>
+</div>
+</div>
+</div>
+</section>
 
 </main>
 <!-- /main column -->
